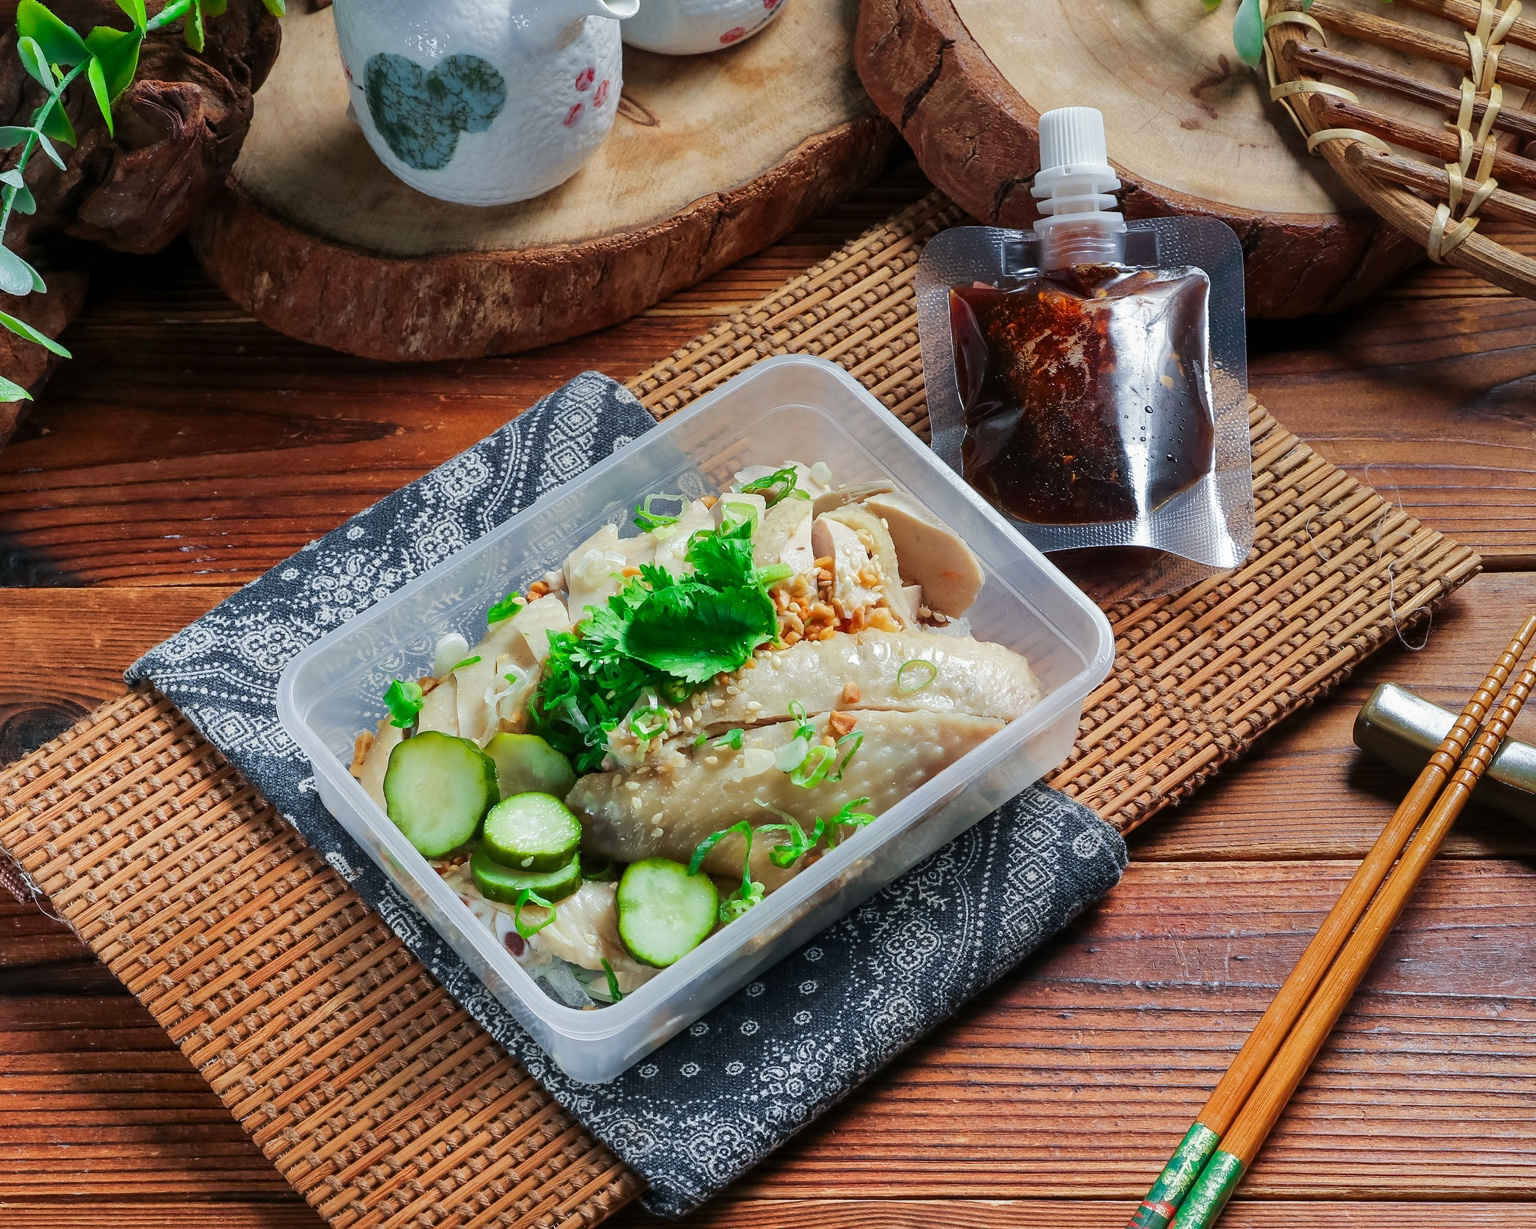
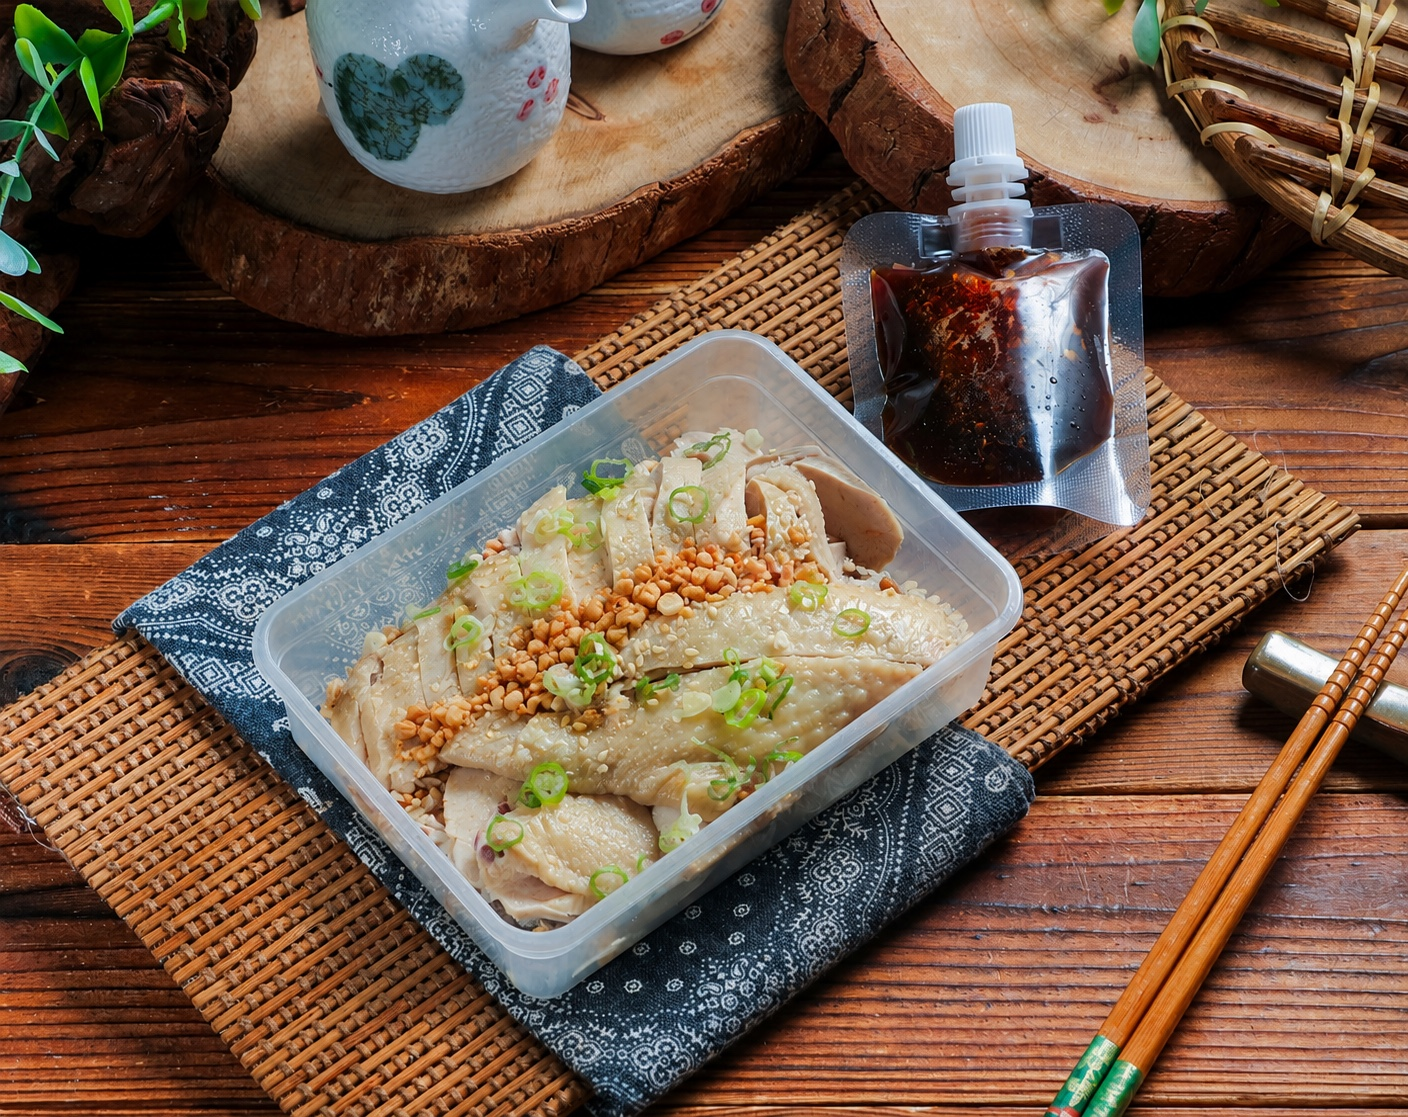
Add files via upload

diff --git a/sw.js b/sw.js
@@ -1,4 +1,4 @@
-const CACHE="just-enough-v7";
+const CACHE="just-enough-v8";
 const FILES=[
 "./","index.html","styles.css","app.js","manifest.webmanifest","icon.svg",
 "spicy_chicken.jpg","oil_quarter.jpg","oil_half.jpg",